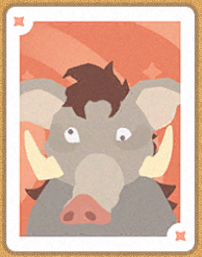
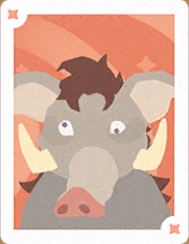
image + fond
re dimension des image; couleur de fond non définitive

diff --git a/GUI/PanelPlateau.java b/GUI/PanelPlateau.java
@@ -5,6 +5,11 @@ import javax.swing.*;
 import java.awt.FlowLayout;
 import java.awt.event.*;
 import java.awt.Color;
+import java.awt.geom.Line2D;
+import java.awt.BasicStroke;
+import java.awt.Graphics2D;
+import java.awt.Graphics;
+
 
 public class PanelPlateau extends JPanel 
 {
@@ -13,6 +18,7 @@ public class PanelPlateau extends JPanel
 
 	public PanelPlateau()
 	{
+		this.setBackground(new Color(206,154,82));
 
 		this.setLayout(new FlowLayout());
 		/* ---------------------------- */
@@ -36,5 +42,37 @@ public class PanelPlateau extends JPanel
 		/* ---------------------------- */ 
 
 
+		
+
+
 	}
+	/**
+     * Dessine la ligne pointillée dans le panneau.
+     *
+     * @param g L'objet Graphics utilisé pour dessiner la ligne.
+     */
+    @Override
+    protected void paintComponent(Graphics g) 
+	{
+        super.paintComponent(g);
+
+        // Convertir l'objet Graphics en Graphics2D
+        Graphics2D g2d = (Graphics2D) g;
+
+        // Définir le motif du trait (pointillé)
+        float[] dashPattern = {5.0f, 5.0f};
+        BasicStroke dashStroke = new BasicStroke(2.0f, BasicStroke.CAP_ROUND, BasicStroke.JOIN_ROUND, 10.0f, dashPattern, 0.0f);
+
+        // Appliquer le motif du trait au Graphics2D
+        g2d.setStroke(dashStroke);
+
+        // Dessiner la ligne pointillée
+        int x1 = 80;
+        int y1 = 80;
+        int x2 = 250;
+        int y2 = 250;
+        Line2D line = new Line2D.Double(x1, y1, x2, y2);
+        g2d.draw(line);
+    }
+
 }

diff --git a/GUI/lance.java b/GUI/lance.java
@@ -10,10 +10,7 @@ public class Lance
 
 	public Lance()
 	{
-
 		this.framePlateau = new FramePlateau(this);
-
-
 	}
 
     public static void main(String[] a){ new Lance(); }
